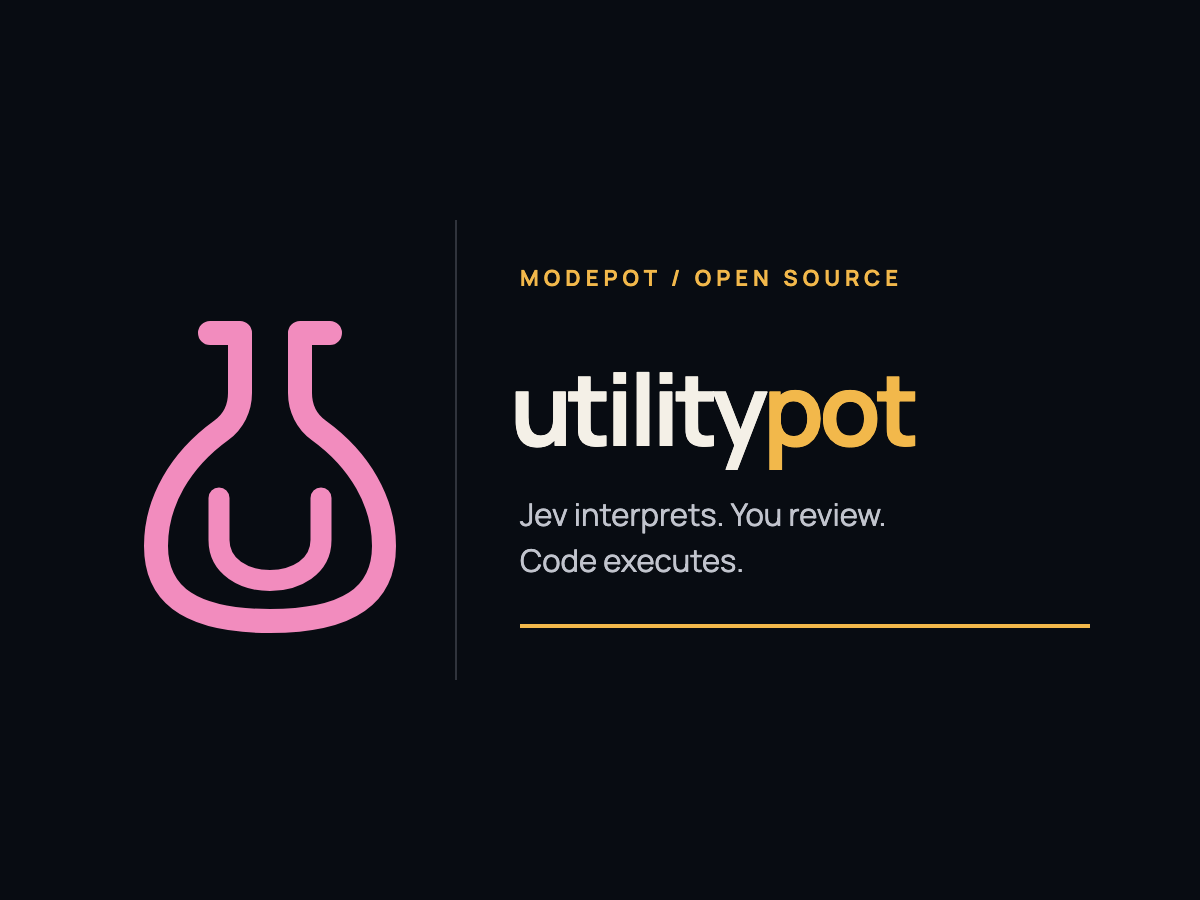
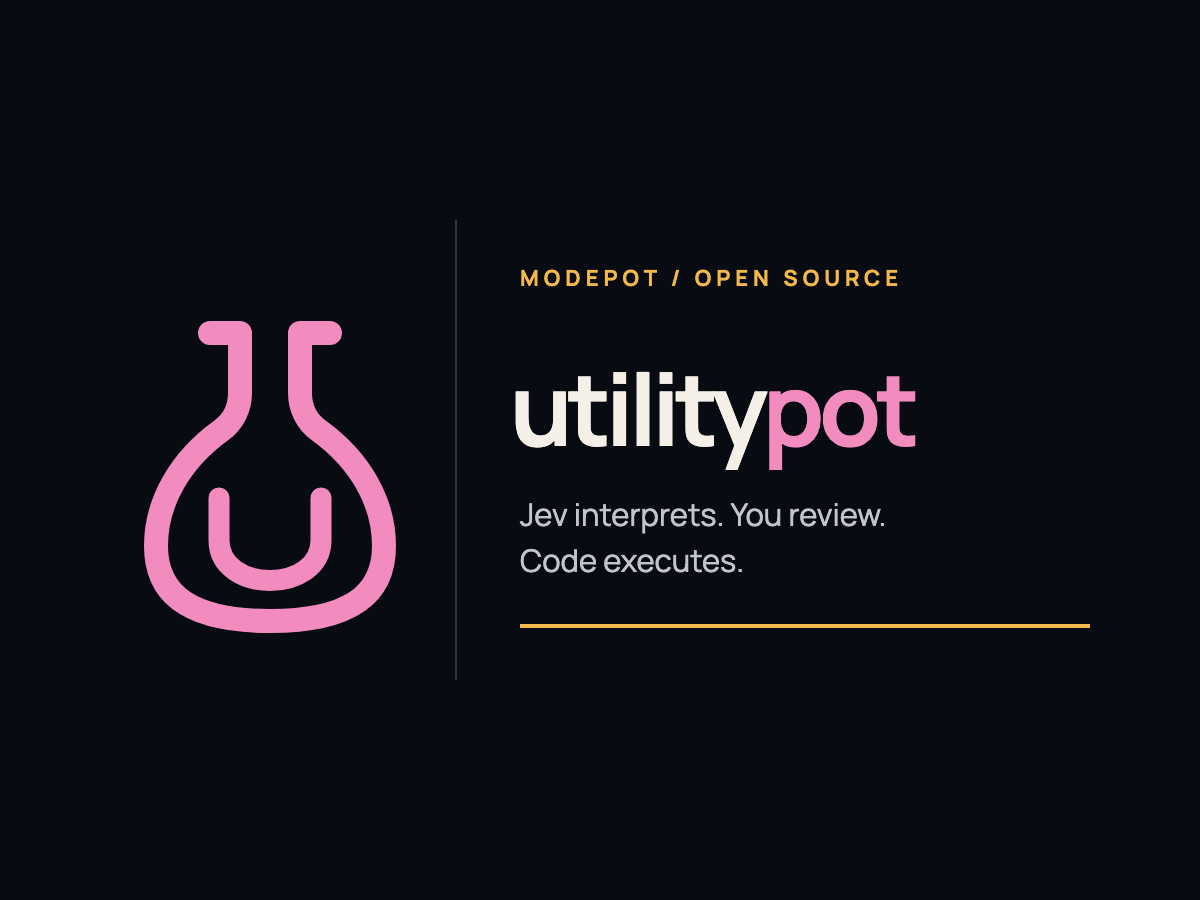
fix: stable outcome layout, rotating workshop and flask-matched wordmarks (#20)
* fix: keep family discovery stable when utility results expand

* test: settle fonts before measuring discovery geometry

* feat: rotate workshop projects and match wordmarks to flask accents

Changed region(s): [[0.6167, 0.4044, 0.7708, 0.5289]]

diff --git a/src/data/discovery.js b/src/data/discovery.js
@@ -2,19 +2,46 @@
 // in docs/public-usability-final-evidence.json (runtime cf82c14). These are
 // sibling projects, not claims about UtilityPot's implementation dependencies.
 export const projects = {
+  dexpot: {
+    name: "Dexpot",
+    href: "https://dexpot.modepot.io/",
+    description:
+      "Synchronous Python HTTP APIs with adaptive execution for GIL and free-threaded CPython.",
+    reason: "Exploring synchronous Python HTTP APIs?",
+    accent: "#66D9FF",
+    lightAccent: "#07617C",
+  },
+  lifepot: {
+    name: "LifePot",
+    href: "https://lifepot.modepot.io/learn",
+    description:
+      "Create and replay artificial-life worlds with validated simulation rules.",
+    reason: "Curious about artificial-life simulations?",
+    accent: "#77E5BD",
+    lightAccent: "#16634B",
+  },
   refpot: {
     name: "RefPot",
+    reason: "Exploring Python storage for structured records?",
+    accent: "#F4F2EA",
+    lightAccent: "#303238",
     href: "https://refpot.modepot.io/",
     description:
       "An experimental embedded database for Python, with CRUD and explicit transactions. Qualification remains limited.",
   },
   intpot: {
     name: "Intpot",
+    reason: "Building your own reusable Python tools?",
+    accent: "#F2B84B",
+    lightAccent: "#795711",
     href: "https://intpot.modepot.io/",
     description: "Define typed Python tools for CLI, HTTP and MCP interfaces.",
   },
   summonpot: {
     name: "Summonpot",
+    reason: "Exploring bounded agent decisions in Python APIs?",
+    accent: "#A987FF",
+    lightAccent: "#6740AD",
     href: "https://summonpot.modepot.io/",
     description:
       "Contract-first Python APIs with bounded agent decisions and application-owned operations.",

diff --git a/src/styles/utilities.css b/src/styles/utilities.css
@@ -582,6 +582,18 @@
 .project-identity strong {
   font-size: 1.1rem;
 }
+.workshop-pot {
+  color: var(--workshop-accent);
+}
+[data-theme="dark"] .workshop-pot {
+  color: var(--workshop-accent-dark);
+}
+.utility-header .brand strong {
+  color: #8f2861;
+}
+[data-theme="dark"] .utility-header .brand strong {
+  color: #f28cbe;
+}
 .discovery-actions {
   display: grid;
   grid-template-columns: repeat(2, minmax(0, 1fr));
@@ -649,14 +661,6 @@
   .utility-main > .tool-guide,
   .utility-main > .tool-help {
     grid-column: 1 / -1;
-  }
-  .utility-main > .utility-app:has(#extra-results:not([hidden])),
-  .utility-main > .utility-app:has(#results:not([hidden])) {
-    grid-column: 1 / -1;
-  }
-  .utility-app:has(#extra-results:not([hidden])) ~ .discovery-rail,
-  .utility-app:has(#results:not([hidden])) ~ .discovery-rail {
-    grid-row: auto;
   }
 }
 @media (max-width: 1049px) {

diff --git a/src/scripts/workshop-discovery.js b/src/scripts/workshop-discovery.js
@@ -1,0 +1,15 @@
+// One uniform draw per card/page load. No timers, profiles or stored identifiers.
+for (const card of document.querySelectorAll("[data-project-showcase]")) {
+  if (card.hasAttribute("data-workshop-selected")) continue;
+  const options = [
+    ...card.querySelectorAll("template[data-workshop-option]"),
+  ].filter((e) => e instanceof HTMLTemplateElement);
+  const content = card.querySelector("[data-workshop-content]");
+  if (!options.length || !content) continue;
+  const selected = options[Math.floor(Math.random() * options.length)];
+  content.replaceChildren(selected.content.cloneNode(true));
+  card.setAttribute(
+    "data-workshop-selected",
+    selected.getAttribute("data-project-id"),
+  );
+}

diff --git a/src/lib/discovery.js b/src/lib/discovery.js
@@ -1,5 +1,7 @@
 // Public fixed constants only; never derive destinations from DOM hrefs or input.
 const destinations = {
+  dexpot: "https://dexpot.modepot.io/",
+  lifepot: "https://lifepot.modepot.io/learn",
   modepot: "https://modepot.io/",
   creator: "https://tugrul.modepot.io/",
   intpot: "https://intpot.modepot.io/",

diff --git a/README.md b/README.md
@@ -1,6 +1,6 @@
 # UtilityPot
 
-<p align="center"><img src="utilitypot.png?v=flask-rose-1" alt="UtilityPot — Jev interprets. You review. Code executes." width="600"></p>
+<p align="center"><img src="utilitypot.png?v=wordmark-accent-1" alt="UtilityPot — Jev interprets. You review. Code executes." width="600"></p>
 
 <p align="center">Part of <a href="https://modepot.io/">ModePot</a>. &nbsp; <a href="https://utilitypot.modepot.io/">Project website</a> &nbsp; <a href="https://tugrul.modepot.io/">Created by Tugrul Guner</a></p>
 
